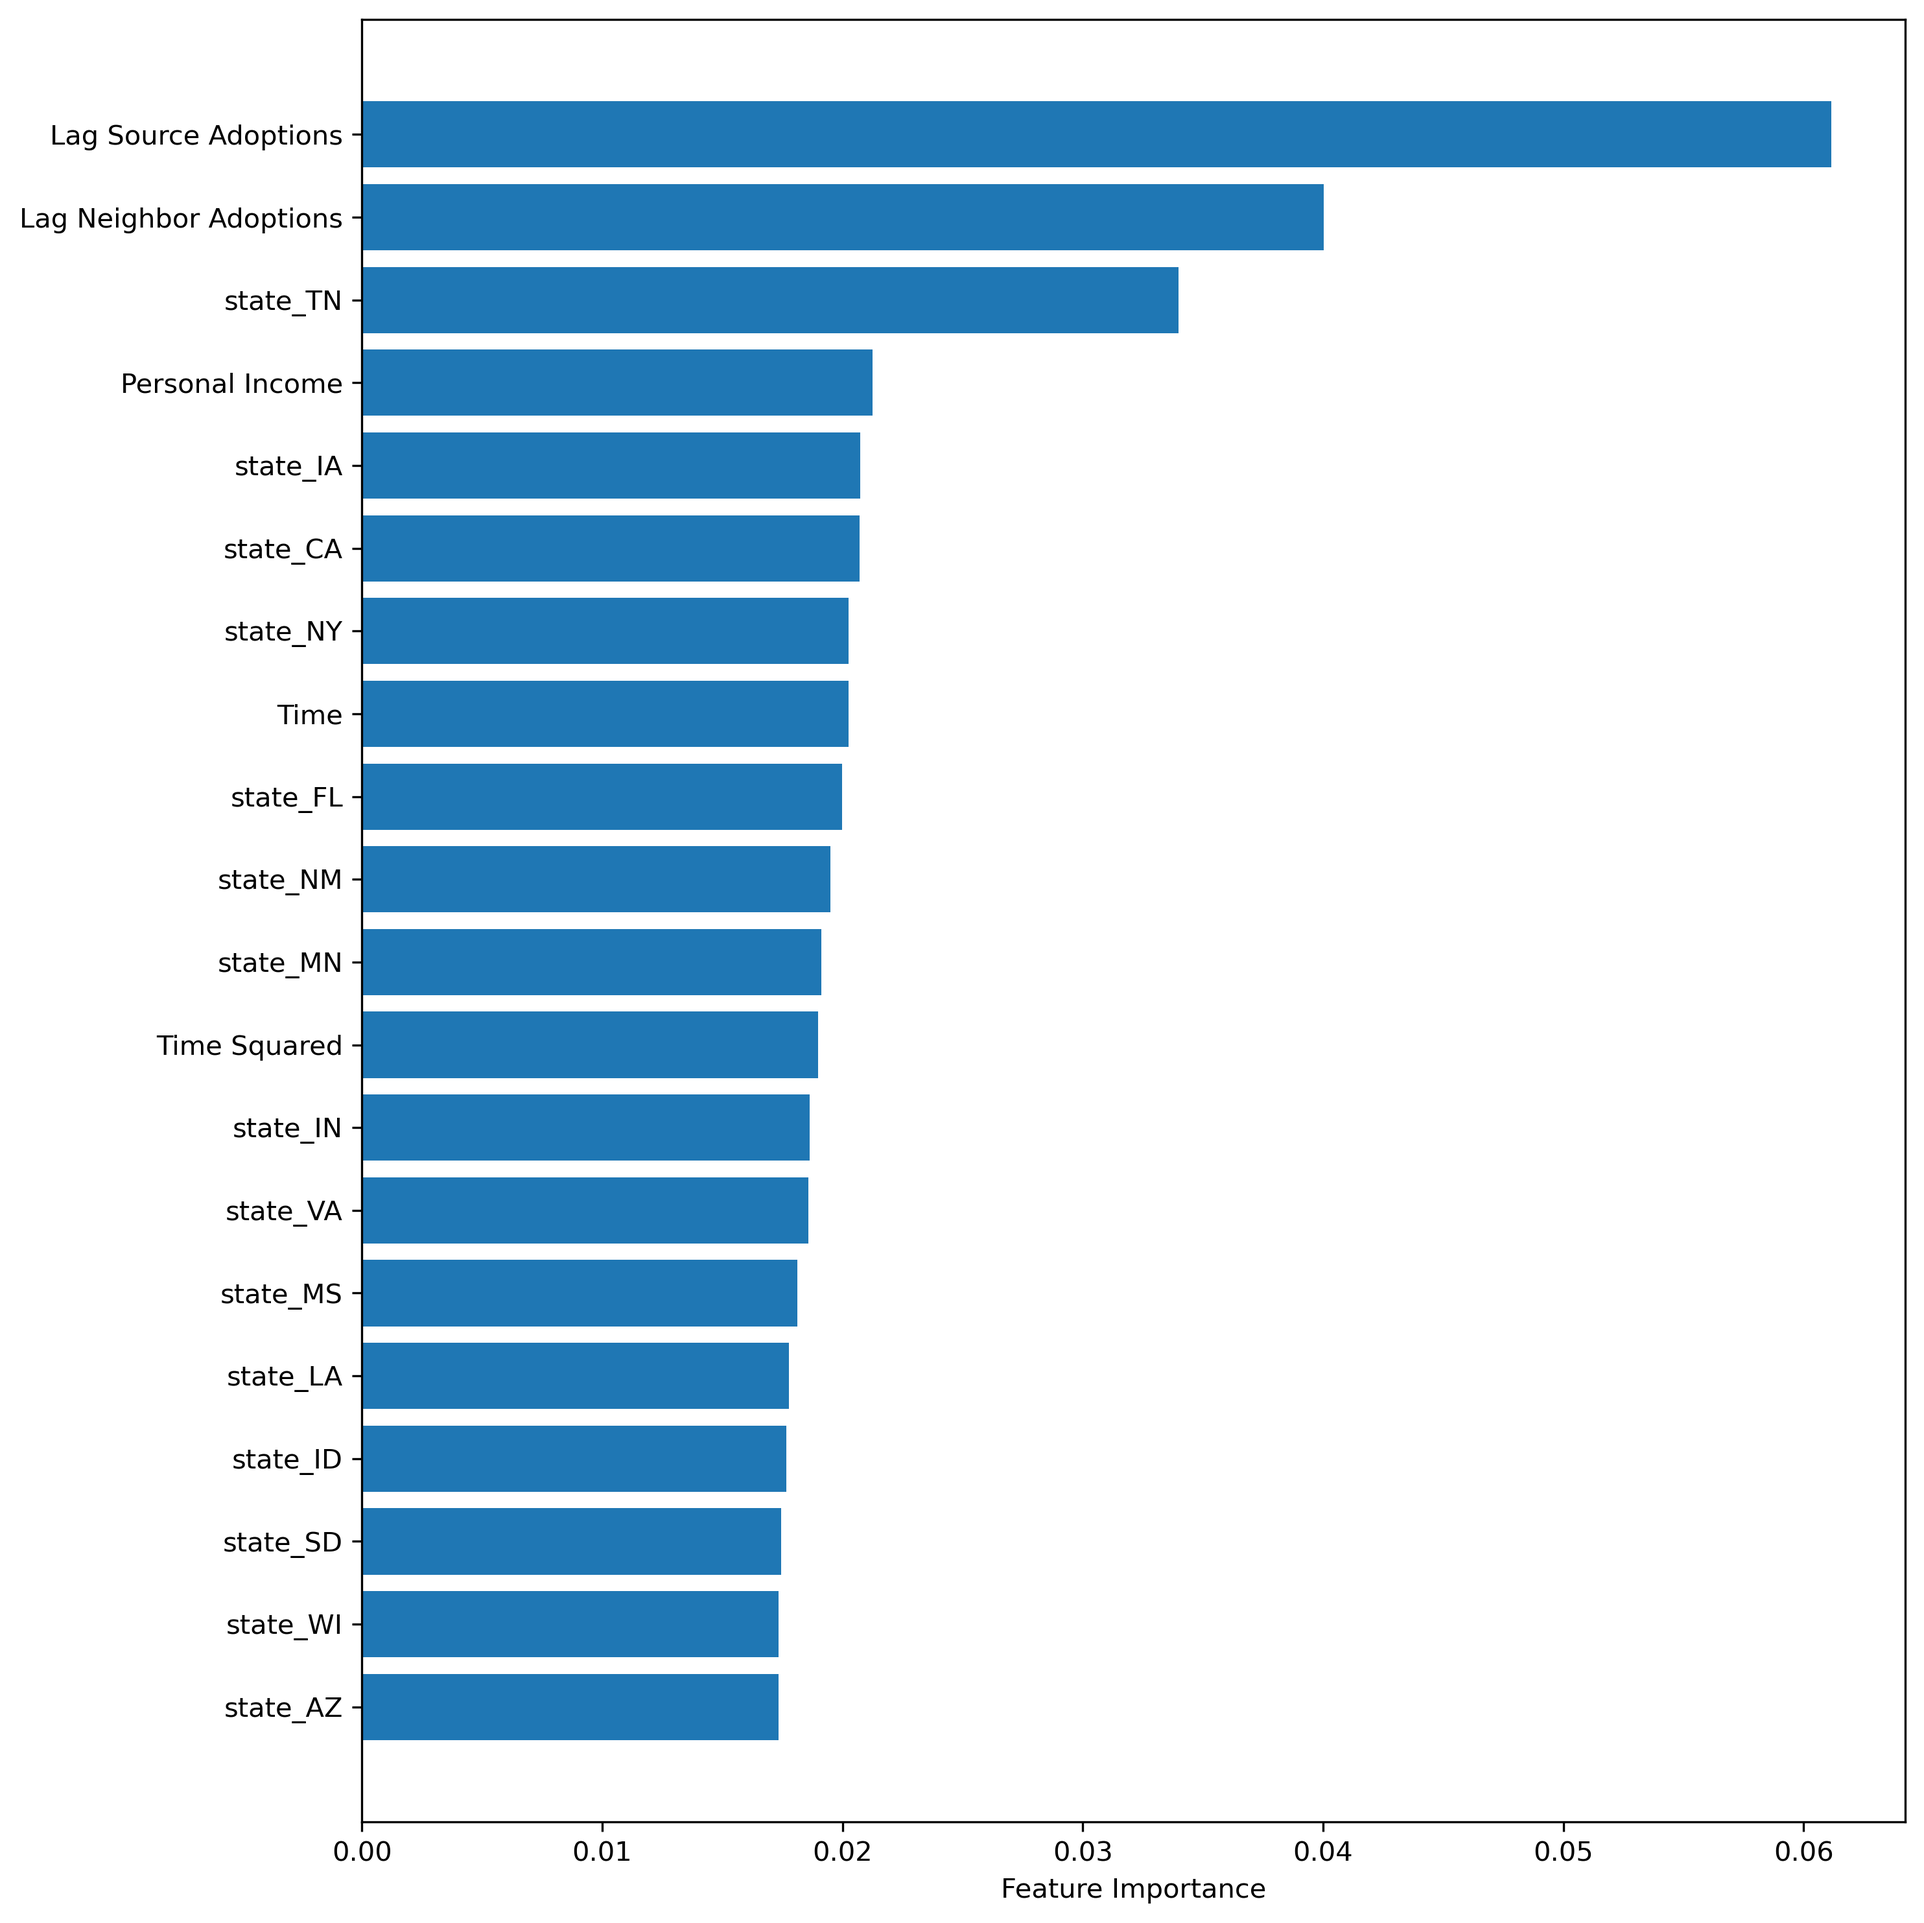
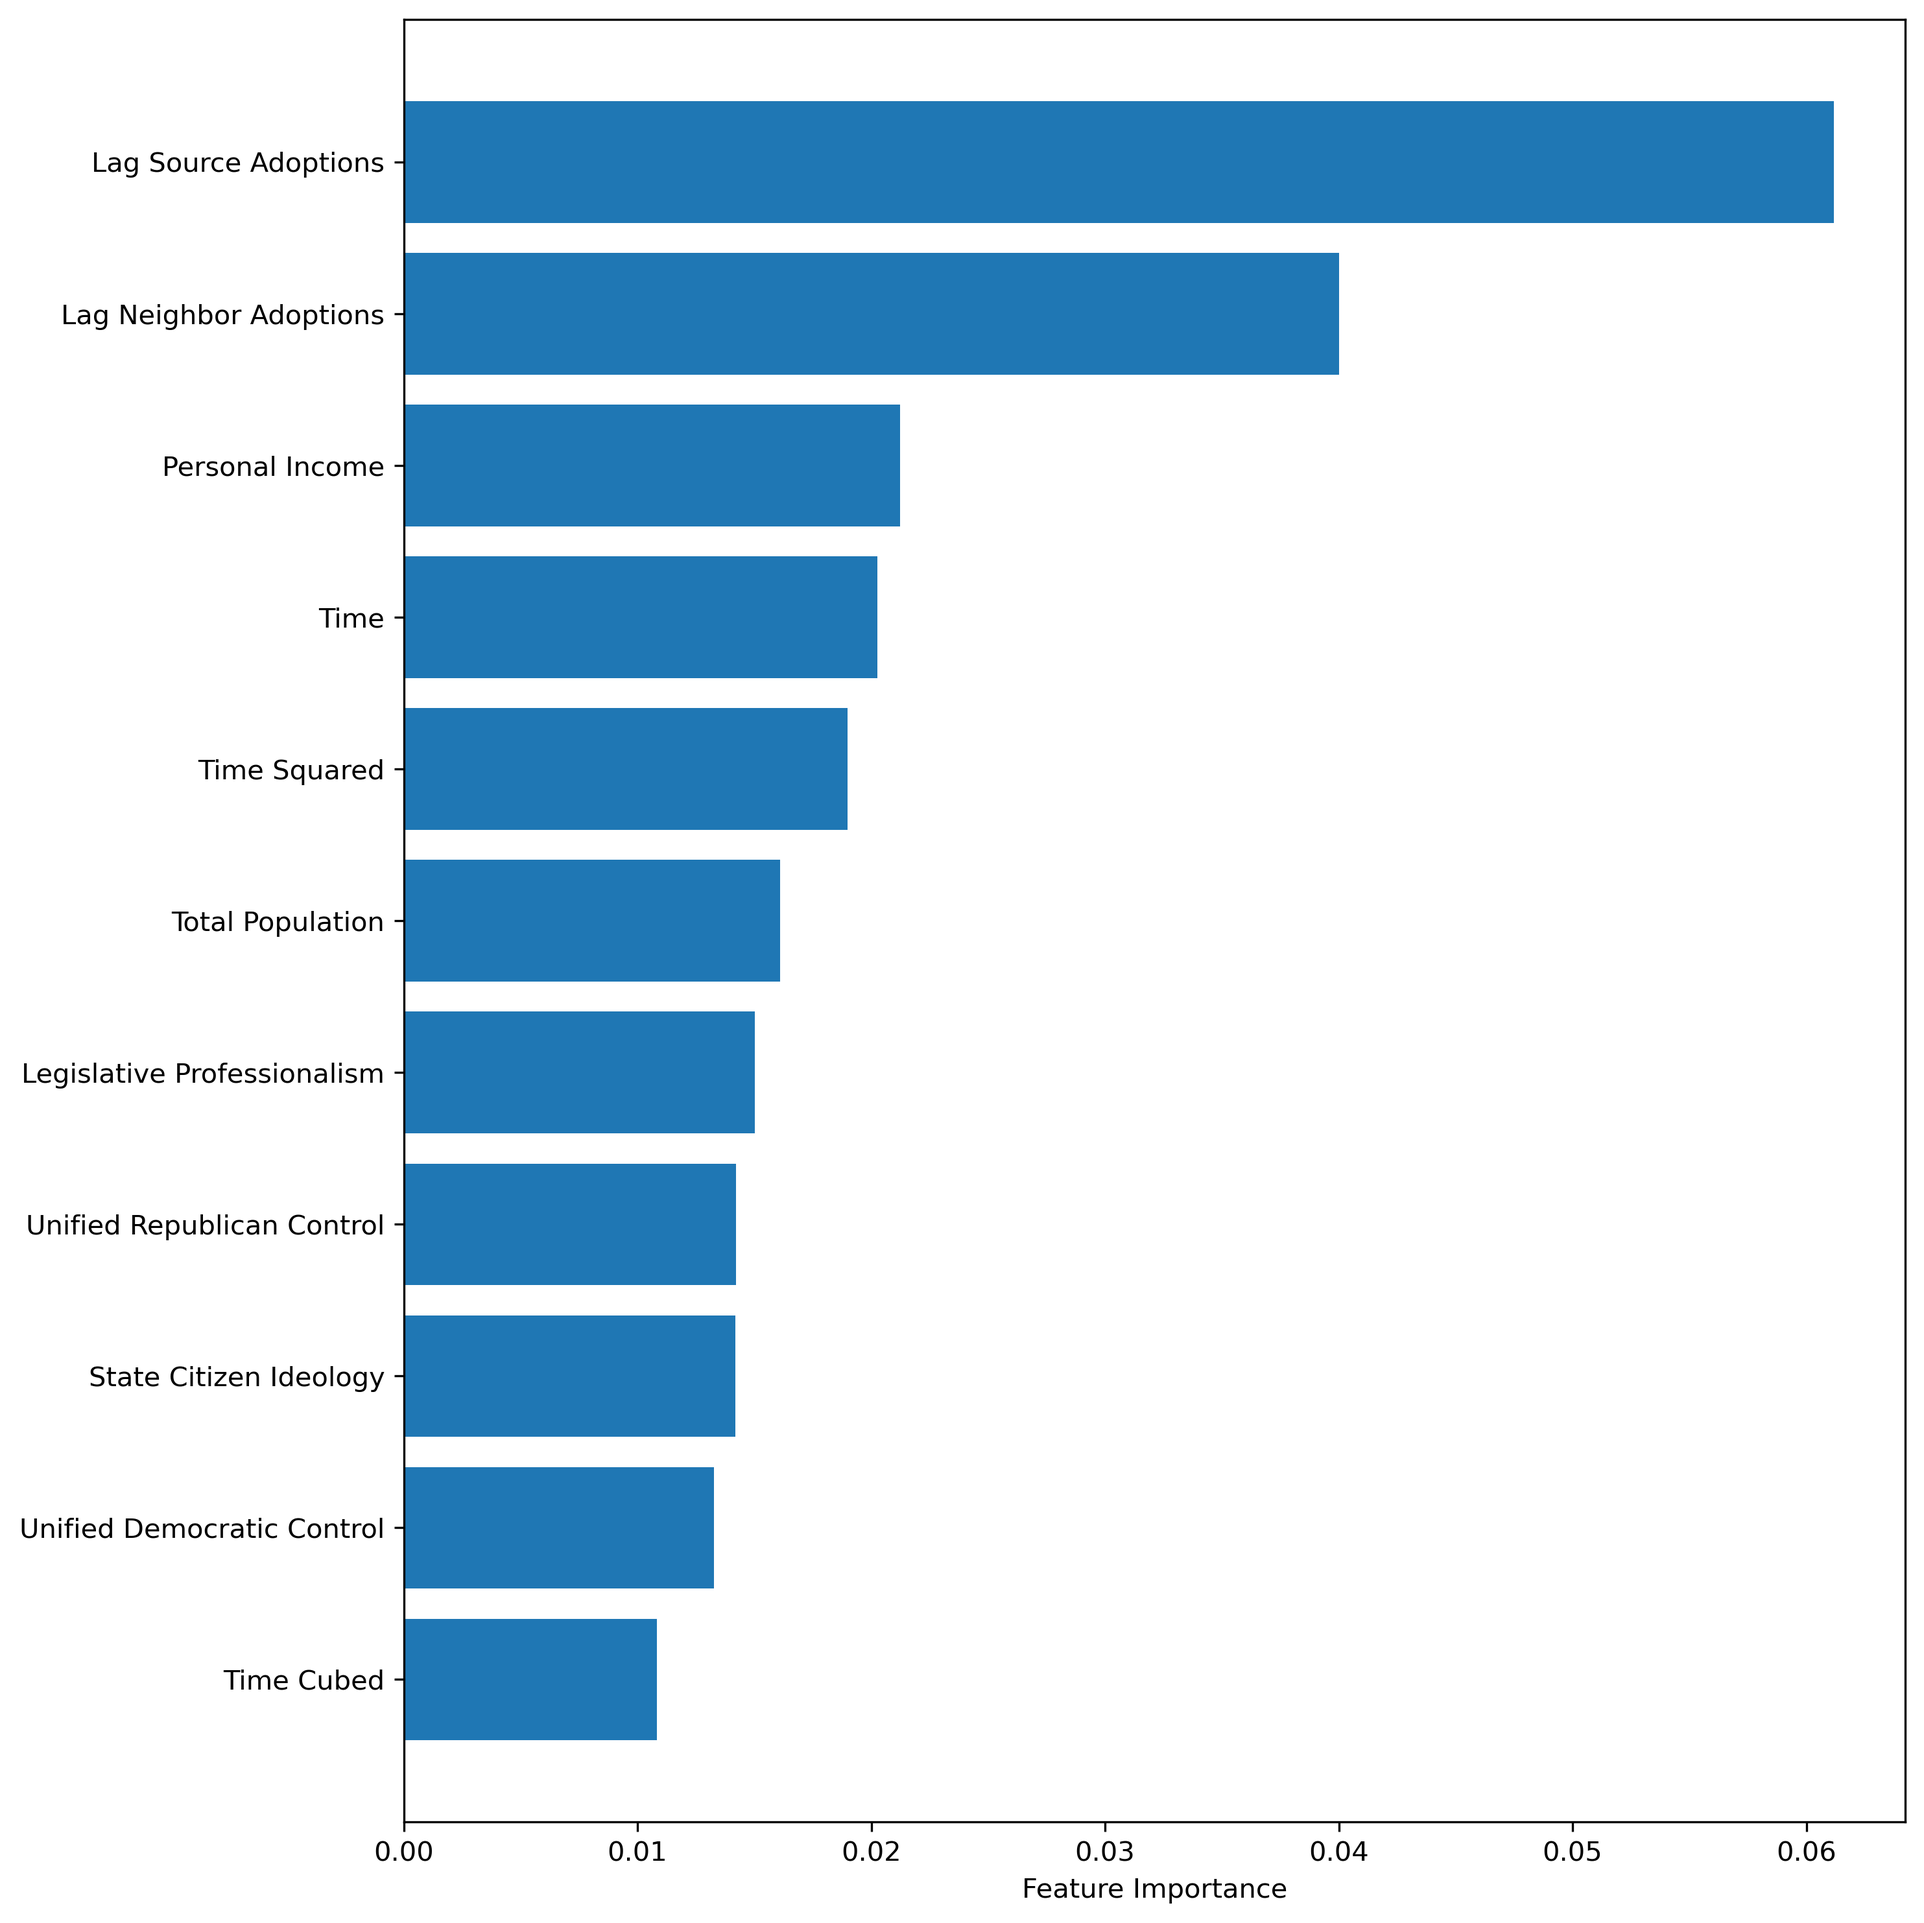
Added most results to feature importance.

Changed region(s): [[0.031, 0.0, 0.9612, 0.9616], [0.5271, 0.9616, 0.6822, 0.9926], [0.4341, 0.9616, 0.4651, 0.9926]]

diff --git a/ml_feature_importance/mallinson_lovell_feature.py b/ml_feature_importance/mallinson_lovell_feature.py
@@ -1,0 +1,184 @@
+import warnings
+warnings.filterwarnings("ignore")
+from sklearn.ensemble import RandomForestClassifier
+from xgboost import XGBClassifier
+from sklearn.model_selection import train_test_split
+from sklearn.preprocessing import StandardScaler
+from sklearn.inspection import PartialDependenceDisplay
+import matplotlib.pyplot as plt
+import pandas as pd
+import random
+import os
+
+random.seed(1337)
+
+# Data
+mallinson_lovell2022_full = pd.read_csv(r"data/mallinson_lovell2022.csv")
+
+# Covariates
+covariates = ["republican","legprof_squire","exp_pupil10000_adj","mathscore4th","readscore4th",
+              "time"]
+mallinson_lovell2022 = mallinson_lovell2022_full[["adopt"] + covariates].dropna()
+
+# Rename columns
+variable_names = {
+    "republican": "Republican",
+    "legprof_squire": "Legislative Professionalism",
+    "exp_pupil10000_adj": "Net Expenditures Per Pupil",
+    "readscore4th": "Reading",
+    "mathscore4th": "Math",
+    "time": "Time"
+}
+
+mallinson_lovell2022 = mallinson_lovell2022.rename(columns = variable_names)
+
+# Update covariates list with new names
+covariates_renamed = [variable_names[var] for var in covariates]
+
+# Define X and y
+X = mallinson_lovell2022[covariates_renamed].copy()
+y = mallinson_lovell2022['adopt']
+
+# Split into train and test sets
+X_train, X_test, y_train, y_test = train_test_split(X, y, test_size = 0.2, random_state = 1337, stratify = y)
+
+# Scale features
+scaler = StandardScaler()
+X_train_scaled = scaler.fit_transform(X_train)
+X_test_scaled = scaler.transform(X_test)
+
+os.chdir("ml_feature_importance")
+
+# Use best hyperparameters from the random-split experiment
+rf_model = RandomForestClassifier(
+    bootstrap = True,
+    ccp_alpha = 00.006076491497524607,
+    class_weight = None,
+    criterion = 'log_loss',
+    max_depth = 12,
+    max_samples = 0.5048236241274381,
+    n_estimators = 100,
+    random_state = 1337
+)
+
+# Fit rf model
+rf_model.fit(X_train_scaled, y_train)
+
+# RF feature importance
+feature_names = X_train.columns.tolist()
+rf_feature_importance = rf_model.feature_importances_
+
+# Use best hyperparameters from the random-split experiment
+xgb_model = XGBClassifier(
+    booster = 'gbtree',
+    eval_metric = 'aucpr',
+    gamma = 2,
+    grow_policy = 'depthwise',
+    learning_rate = 0.04787337145112113,
+    max_bin = 128,
+    max_depth = 3,
+    n_estimators = 100,
+    objective = 'binary:logistic',
+    reg_alpha = 0,
+    scale_pos_weight = 1,
+    subsample = 0.8012137562136856,
+    tree_method = 'auto',
+    random_state = 1337
+)
+
+# Fit XGBoost model
+xgb_model.fit(X_train_scaled, y_train)
+
+# XGBoost feature importance
+xgb_feature_importance = xgb_model.feature_importances_
+
+# Initialize dataframe
+importance_df = pd.DataFrame({
+    'feature': feature_names,
+    'rf_importance': rf_feature_importance,
+    'xgb_importance': xgb_feature_importance})
+
+# Create Random Forest feature importance plot
+fig1, ax1 = plt.subplots(1, 1, figsize = (10, 10))
+rf_top_features = importance_df.sort_values(by = 'rf_importance', ascending = False).head(20)
+ax1.barh(range(len(rf_top_features)), rf_top_features['rf_importance'])
+ax1.set_yticks(range(len(rf_top_features)))
+ax1.set_yticklabels(rf_top_features['feature'])
+ax1.set_xlabel('Feature Importance')
+ax1.invert_yaxis()
+plt.tight_layout()
+plt.savefig('figures/mallinson_lovell2022/mallinson_lovell_feature_importance_rf.png', dpi = 300, bbox_inches = 'tight')
+plt.show()
+
+# Create XGBoost feature importance plot
+fig2, ax2 = plt.subplots(1, 1, figsize = (10, 10))
+xgb_top_features = importance_df.sort_values(by = 'xgb_importance', ascending = False).head(20)
+ax2.barh(range(len(xgb_top_features)), xgb_top_features['xgb_importance'])
+ax2.set_yticks(range(len(xgb_top_features)))
+ax2.set_yticklabels(xgb_top_features['feature'])
+ax2.set_xlabel('Feature Importance')
+ax2.invert_yaxis()
+plt.tight_layout()
+plt.savefig('figures/mallinson_lovell2022/mallinson_lovell_feature_importance_xgb.png', dpi = 300, bbox_inches = 'tight')
+plt.show()
+
+# Save output
+importance_df.to_csv('figures/mallinson_lovell2022/mallinson_lovell_feature_importance.csv', index = False)
+
+# Create RF PDP with top 7 features
+top_features_rf = importance_df.sort_values(by = 'rf_importance', ascending = False).head(6)['feature'].tolist()
+
+# Create partial dependence plot
+fig, axes = plt.subplots(3, 3, figsize = (15, 15))
+axes = axes.ravel()
+
+for i, feature in enumerate(top_features_rf):
+    feature_idx = feature_names.index(feature)
+    display = PartialDependenceDisplay.from_estimator(
+        rf_model, 
+        X_train_scaled, 
+        features = [feature_idx],
+        feature_names = feature_names,
+        ax = axes[i],
+        kind = 'average',
+        response_method = 'predict_proba'
+    )
+    axes[i].set_title(f'PDP: {feature}')
+    display.axes_[0, 0].set_ylabel('Predicted Probability of Adoption')
+
+# Hide unused subplots
+for j in range(len(top_features_rf), len(axes)):
+    axes[j].set_visible(False)
+
+plt.tight_layout()
+plt.savefig('figures/mallinson_lovell2022/mallinson_lovell_partial_dependence_rf.png', dpi = 300, bbox_inches = 'tight')
+plt.show()
+
+# Create XGBoost PDP with top 7 features
+top_features_xgb = importance_df.sort_values(by = 'xgb_importance', ascending = False).head(6)['feature'].tolist()
+
+# Create partial dependence plot
+fig, axes = plt.subplots(3, 3, figsize = (15, 15))
+axes = axes.ravel()
+
+for i, feature in enumerate(top_features_xgb):
+    feature_idx = feature_names.index(feature)
+    display = PartialDependenceDisplay.from_estimator(
+        xgb_model, 
+        X_train_scaled, 
+        features = [feature_idx],
+        feature_names = feature_names,
+        ax = axes[i],
+        kind = 'average',
+        response_method = 'predict_proba'
+    )
+    axes[i].set_title(f'PDP: {feature}')
+    display.axes_[0, 0].set_ylabel('Predicted Probability of Adoption')
+
+# Hide unused subplots
+for j in range(len(top_features_xgb), len(axes)):
+    axes[j].set_visible(False)
+
+plt.tight_layout()
+plt.savefig('figures/mallinson_lovell2022/mallinson_lovell_partial_dependence_xgb.png', dpi = 300, bbox_inches = 'tight')
+plt.show()
